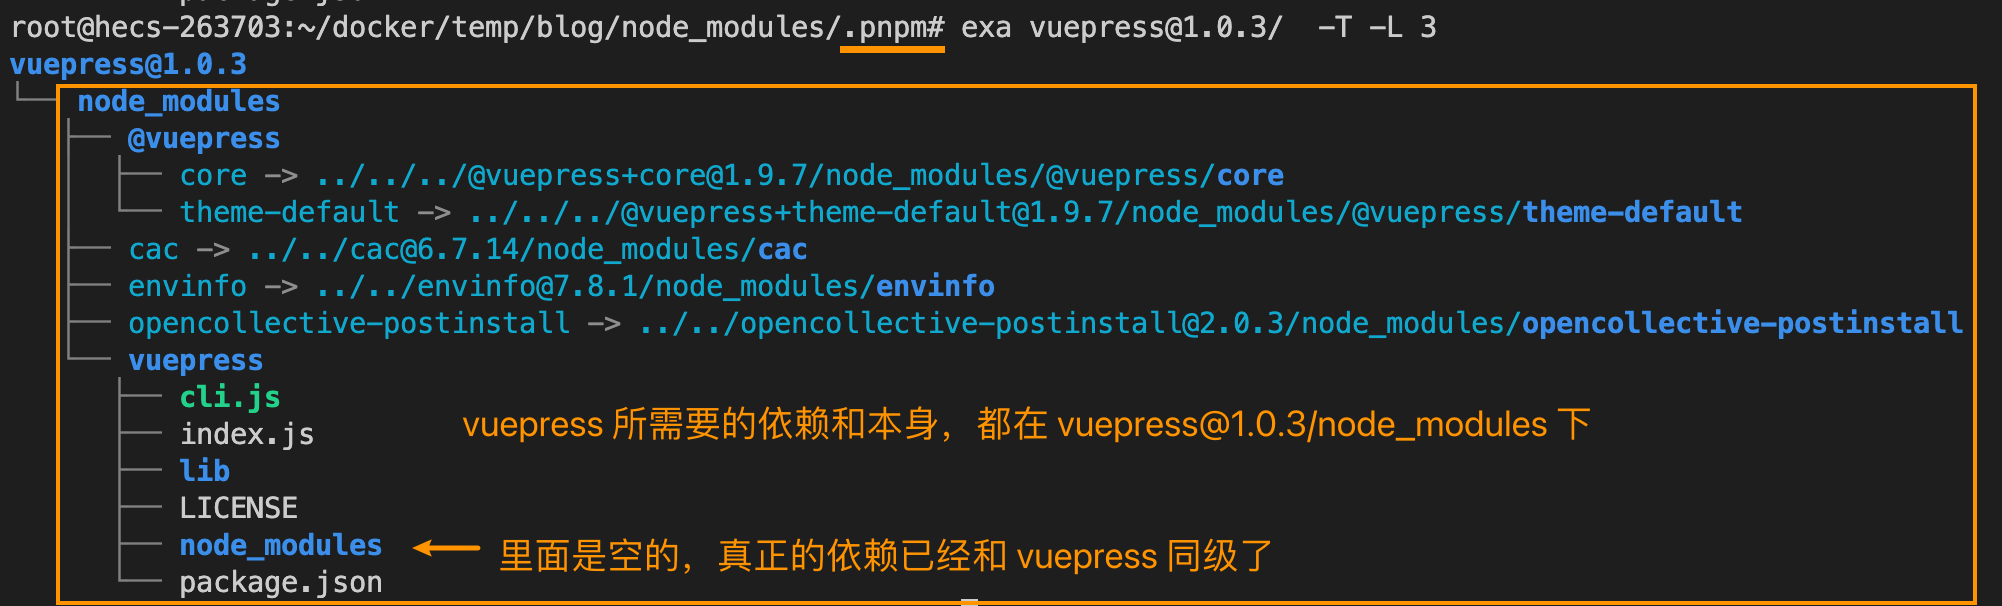
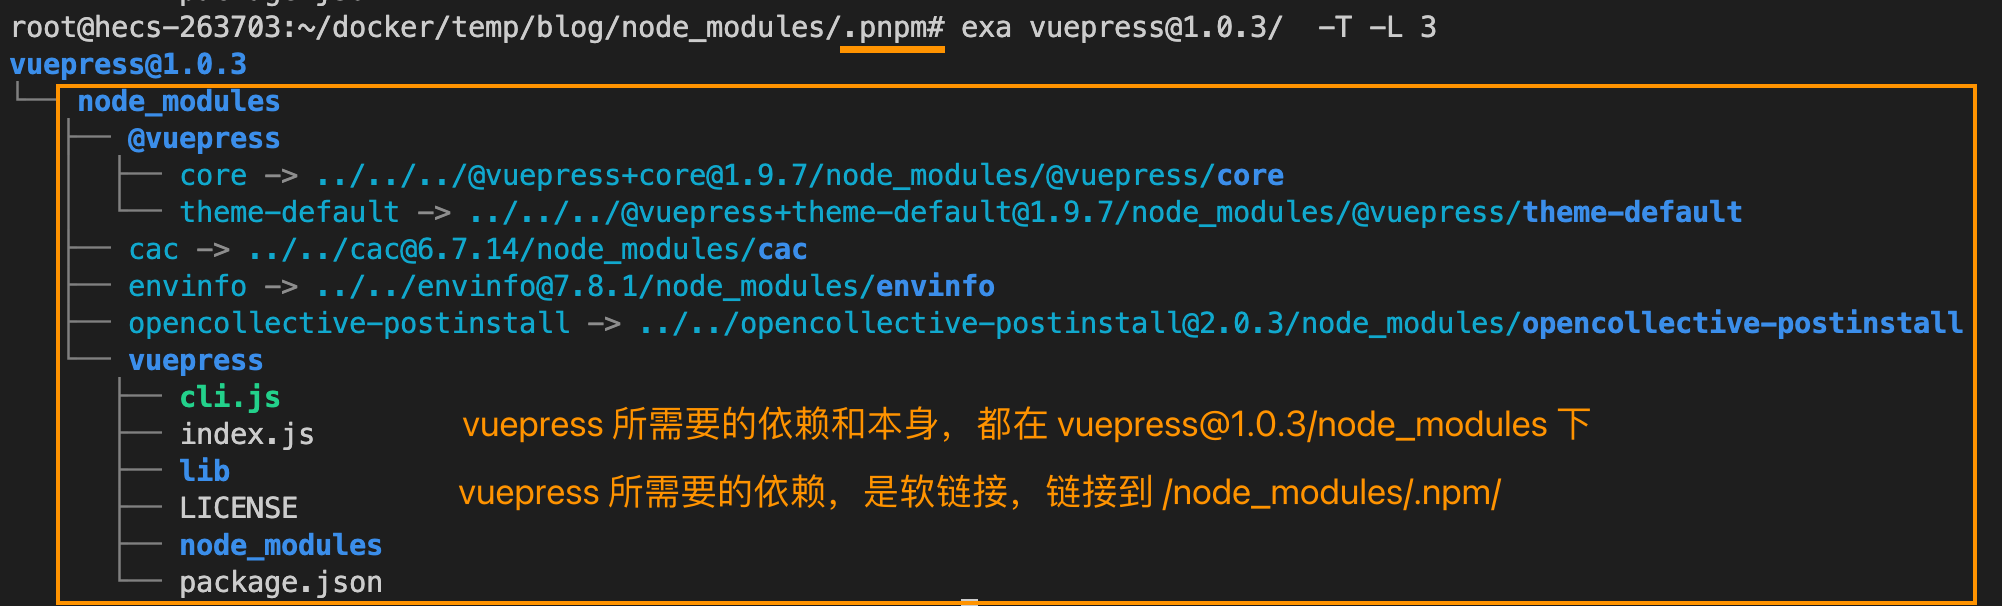
docs(linux): linux - 6 | ln 创建软硬链接

Changed region(s): [[0.2168, 0.7723, 0.7433, 0.8614], [0.1858, 0.8911, 0.6503, 0.9505]]

diff --git a/docs/views/linux/221020-1.md b/docs/views/linux/221020-1.md
@@ -136,7 +136,7 @@ Change: 2022-10-20 21:08:13.353063649 +0800
 
 - 工程直接依赖的包，在 `node_modules` 都是以 **软链接** 形式存在。真实地址在项目中的 `/node_modules/.pnpm`。解决了幽灵依赖（`node_modules` 文件夹没有非工程直接依赖的包）。
   ![](./221020-1/2.png)
-- 依赖的真实存放位置：`/node_modules/.pnpm/<name>@<version>/node_modules/<name>`。以平铺的形式存在，且所有包都是这种短路径。解决了 `npm v2` 的嵌套 `node_modules` 引起长路径问题，也保留了包之间的相互隔离。
+- 依赖的真实存放位置：`/node_modules/.pnpm/<name>@<version>/node_modules/<name>`。以平铺的形式存在，且所有包（深层级的依赖）都是这种短路径。解决了 `npm v2` 的嵌套 `node_modules` 引起长路径问题，也保留了包之间的相互隔离。
 - `/node_modules/.pnpm` 文件夹下的依赖都是从全局的依赖 `.pnpm store`**硬链接** 出来。例如 `/node_modules/.pnpm/<name>@<version>/node_modules/<name>` 目录下的文件就是硬链接。这样解决了文件资源重复问题（节省磁盘空间，节省下载时间）。而且由于硬链接，即使全局的依赖被删除，项目的依赖也不会受影响。
   > 可以查项目依赖中任意硬链接所有引用的位置，例如以下示例，项目使用了 `vue`，其 `package.json` 的 `main` 字段为：`vue.runtime.common.js`
   ```bash
@@ -153,7 +153,8 @@ Change: 2022-10-20 21:08:13.353063649 +0800
   > `require()` 寻找依赖包，是一层一层目录往外找的。所以对于 `node` 而言，依赖关系是在包的 `node_module` 中还是在父/祖父目录中的任何 `node_module` 中都没有区别。具体可以参考文档：[Node.js Manual & Documentation - Modules](https://nodejs.org/docs/v0.4.2/api/modules.html)     
   If it is not found there, then it moves to the parent directory, and so on, until either the module is found, or the root of the tree is reached.
 
-- 由于将 `node_modules` 下扁平化的依赖包，转换成硬链接，并放在 `/node_modules/.pnpm` 中，修改了相对位置，导致 **依赖包中依赖包** 找不到。为了解决这个问题，`pnpm` 将非工程直接依赖包，软链接一份放在了 `/node_modules/.pnpm/node_modules` 下，这样就解决了找不到包的问题。![](./221020-1/3.png)
-  > 如果匹配不到，直至 `/node_modules/.pnpm` 这个层级，就会查找 `/node_modules/.pnpm/node_modules`，便能找到引用的依赖包。
+- `pnpm v5` 将创建一个“半严格”的 `node_modules`。项目将只能导入 `package.json` 中声明的直接依赖包，而依赖包能访问任何其他的包。[pnpm的node_modules配置选项](https://pnpm.io/zh/blog/2020/10/17/node-modules-configuration-options-with-pnpm)，`pnpm` 将所有包，软链接一份放在了 `/node_modules/.pnpm/node_modules` 下，这样就解决了依赖包找不到依赖包的问题。![](./221020-1/3.png)
+  > 理论上依赖包的依赖是可以在其本身 `node_modules` 中匹配到，但不排除有些依赖使用幽灵依赖，或者利用原本 `npm` 的特性使用的也不是依赖的依赖，而是同级别的依赖，所以就出现了这种场景。
+  `pnpm` 为了覆盖这种场景，就诞生了`/node_modules/.pnpm/node_modules/` 如果匹配不到，直至 `/node_modules/.pnpm` 这个层级，就会查找 `/node_modules/.pnpm/node_modules`，便能找到引用的依赖包。
 
 
